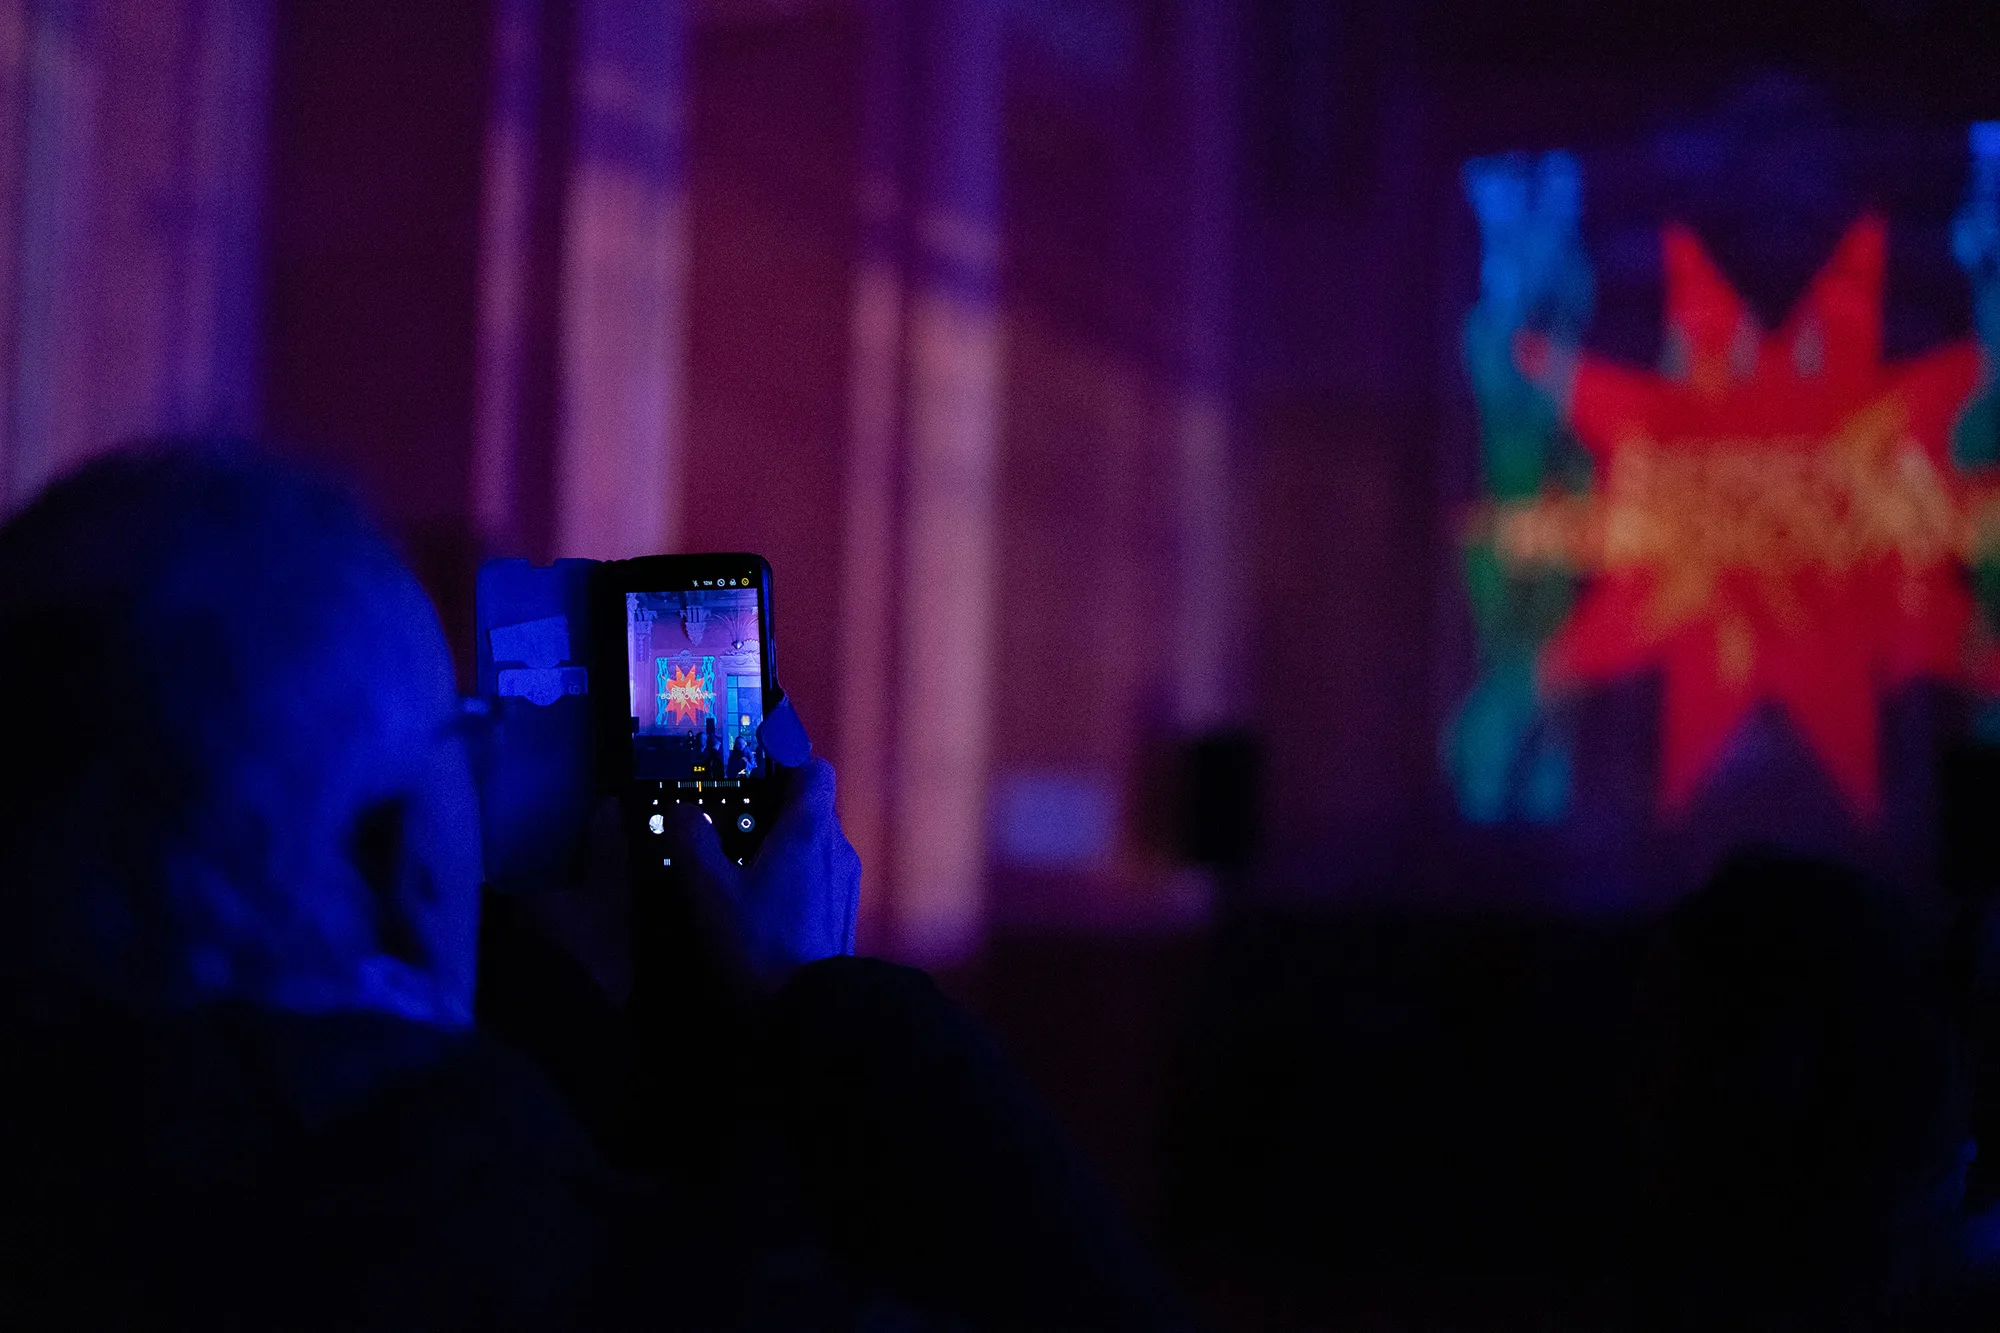
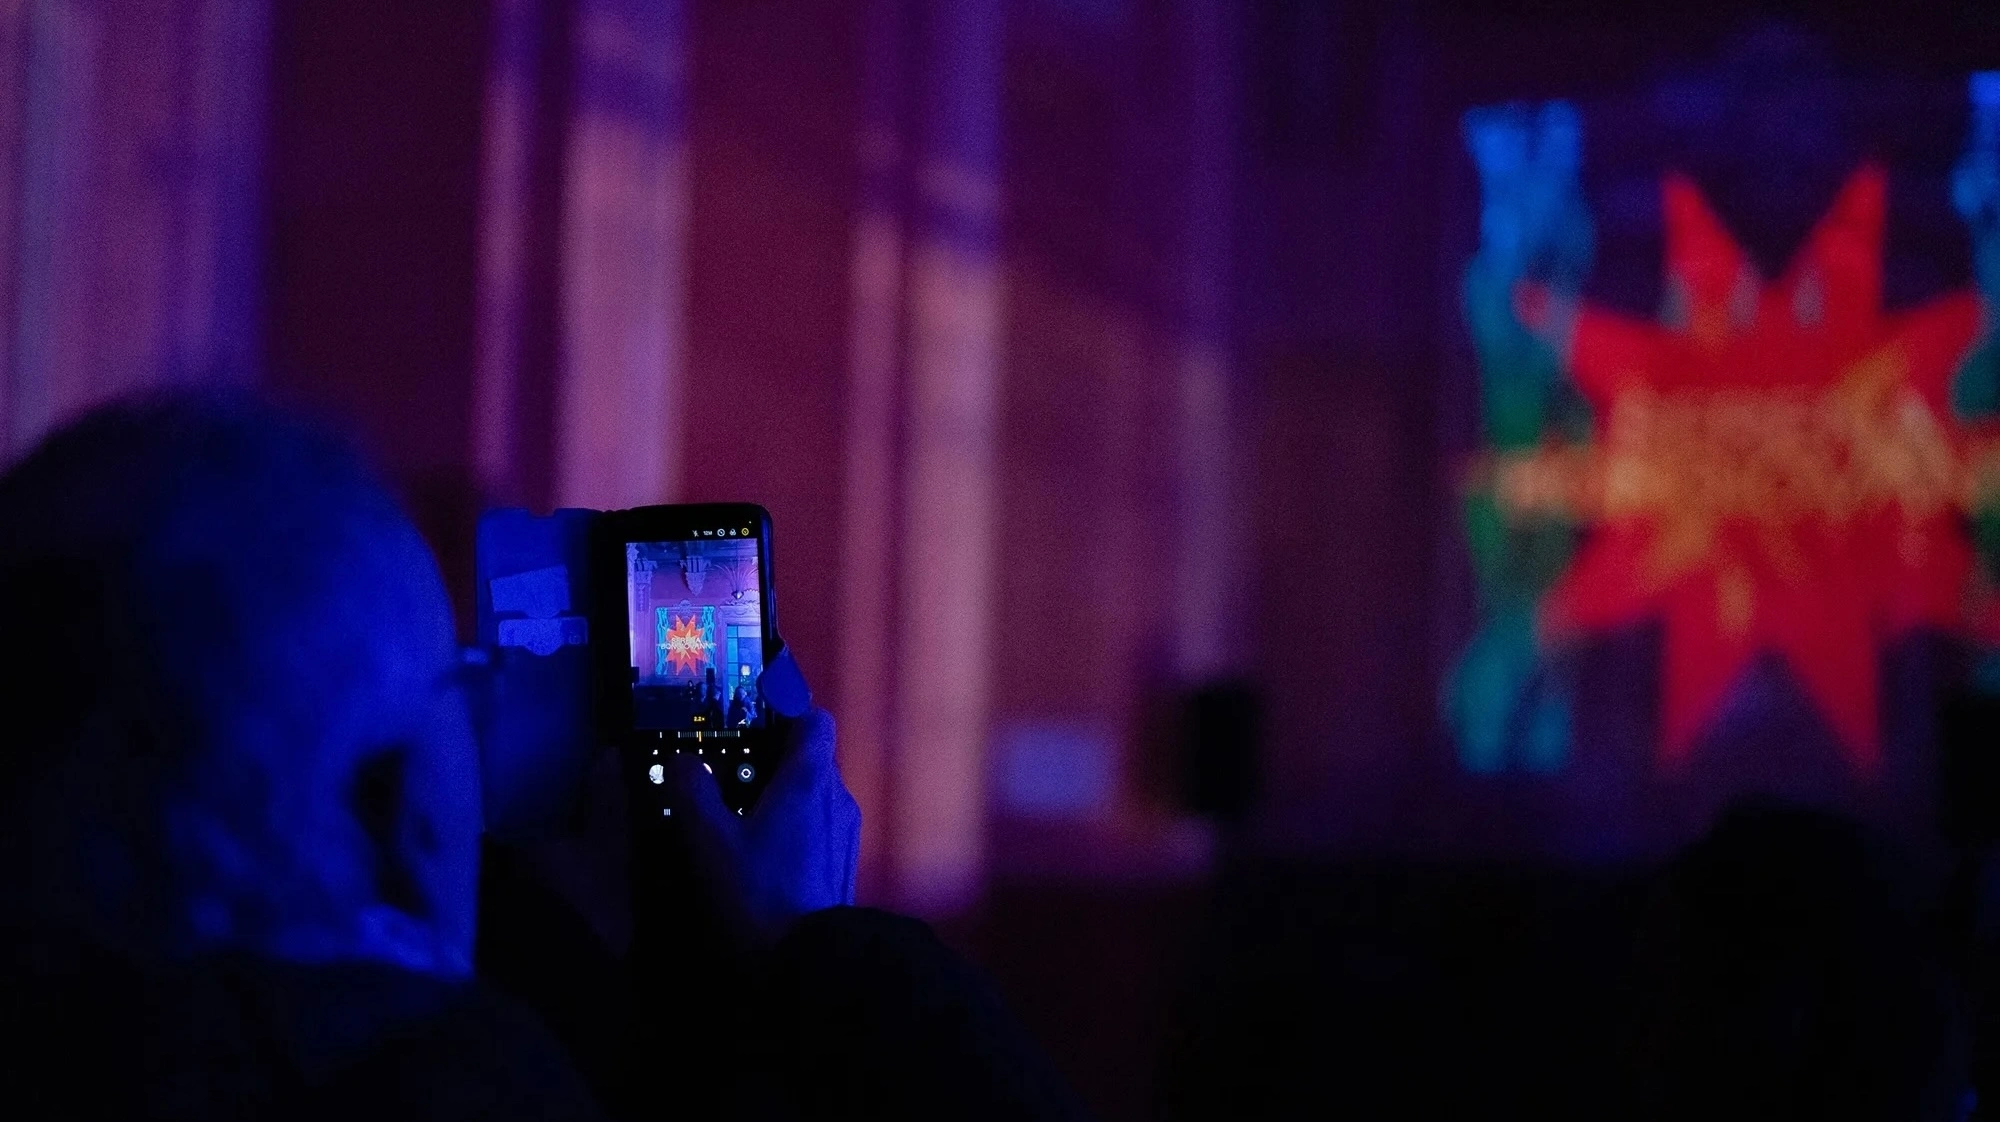
Updates artico

diff --git a/content/artico.md b/content/artico.md
@@ -8,18 +8,18 @@ In 2023 the Dj set and live visuals has been performed on the moment before and 
 
 {right} Drawing on the theme of the beyond and the concept of passage, Beyond the Portal reimagines the Duomo Hall as a liminal space — a threshold between realms of perception. Through site-specific projection mapping, the architecture was transformed into a dynamic, virtual non-portal: an ephemeral yet powerful gateway that challenges the boundaries between physical structure and digital expression.
 
-![](assets/img/ogr/novamedia_ogr24_1.webp)
-![](assets/img/ogr/novamedia_ogr24_2.webp)
+![](assets/img/artico/artico_7.webp)
+![](assets/img/artico/artico_3.webp)
 
 {left large} The experience unfolds through a continuous interplay of light, sound, movement, and architecture. Carefully choreographed visual sequences respond to the geometry of the space, shifting its scale and perception while guiding the audience through an evolving sensory journey. Rather than simply occupying the architecture, the installation activates it, creating moments of tension, suspension, and transformation where the physical and the virtual become increasingly indistinguishable.
 
-![](assets/img/ogr/novamedia_ogr24_3.webp)
-![](assets/img/ogr/novamedia_ogr24_4.webp)
+![](assets/img/artico/artico_12.mp4)
+![](assets/img/artico/artico_13.webp)
+
 
 {left large} Beyond the Portal ultimately becomes an exploration of transition — a passage into a space that exists between the tangible and the imagined. As light and imagery reshape the monumental structure, the familiar environment is suspended and reconfigured, inviting the audience to question what lies beyond the visible. The installation is conceived not as a portal to another place, but as a portal to another state of perception.
 
-![](assets/img/ogr/novamedia_ogr24_5.webp)
-![](assets/img/ogr/novamedia_ogr24_6.webp)
+
 
 
 {left large} **Credits**

diff --git a/content/press.md b/content/press.md
@@ -1,3 +1,4 @@
+<a href="https://www.djmagitalia.com/racconto-suono-immagine-spazio-secondo-nova-media-studio/" target="_blank">[2026] Il racconto di suono, immagine e spazio secondo Nova Media Studio</a>
 <a href="https://www.artuu.it/nova-media-studio-trasforma-il-forte-di-mombasa-in-un-oltre-mondo-digitale-fatto-di-luce-suono-e-memoria/" target="_blank">[2026] ARTUU MAG - Nova Media Studio trasforma il forte di Mombasa in un oltre-mondo digitale fatto di luce, suono e memoria</a>
 <a href="https://ambnairobi.esteri.it/it/news/dall_ambasciata/2026/04/litalia-celebra-larchitetto-cairati-che-progetto-fort-jesus-in-kenya/" target="_blank">[2026] Ambasciata d'Italia a Nairobi - L’Italia celebra l’architetto Cairati che progettò Fort Jesus in Kenya</a>
 <a href="https://www.ansa.it/sito/notizie/mondo/news_dalle_ambasciate/2026/04/24/litalia-celebra-larchitetto-cairati-che-progetto-fort-jesus-in-kenya_01756ad1-b145-40e4-a128-54b18c8872fd.html#google_vignette" target="_blank">[2026] ANSA - L’Italia celebra l’architetto Cairati che progettò Fort Jesus in Kenya</a>
